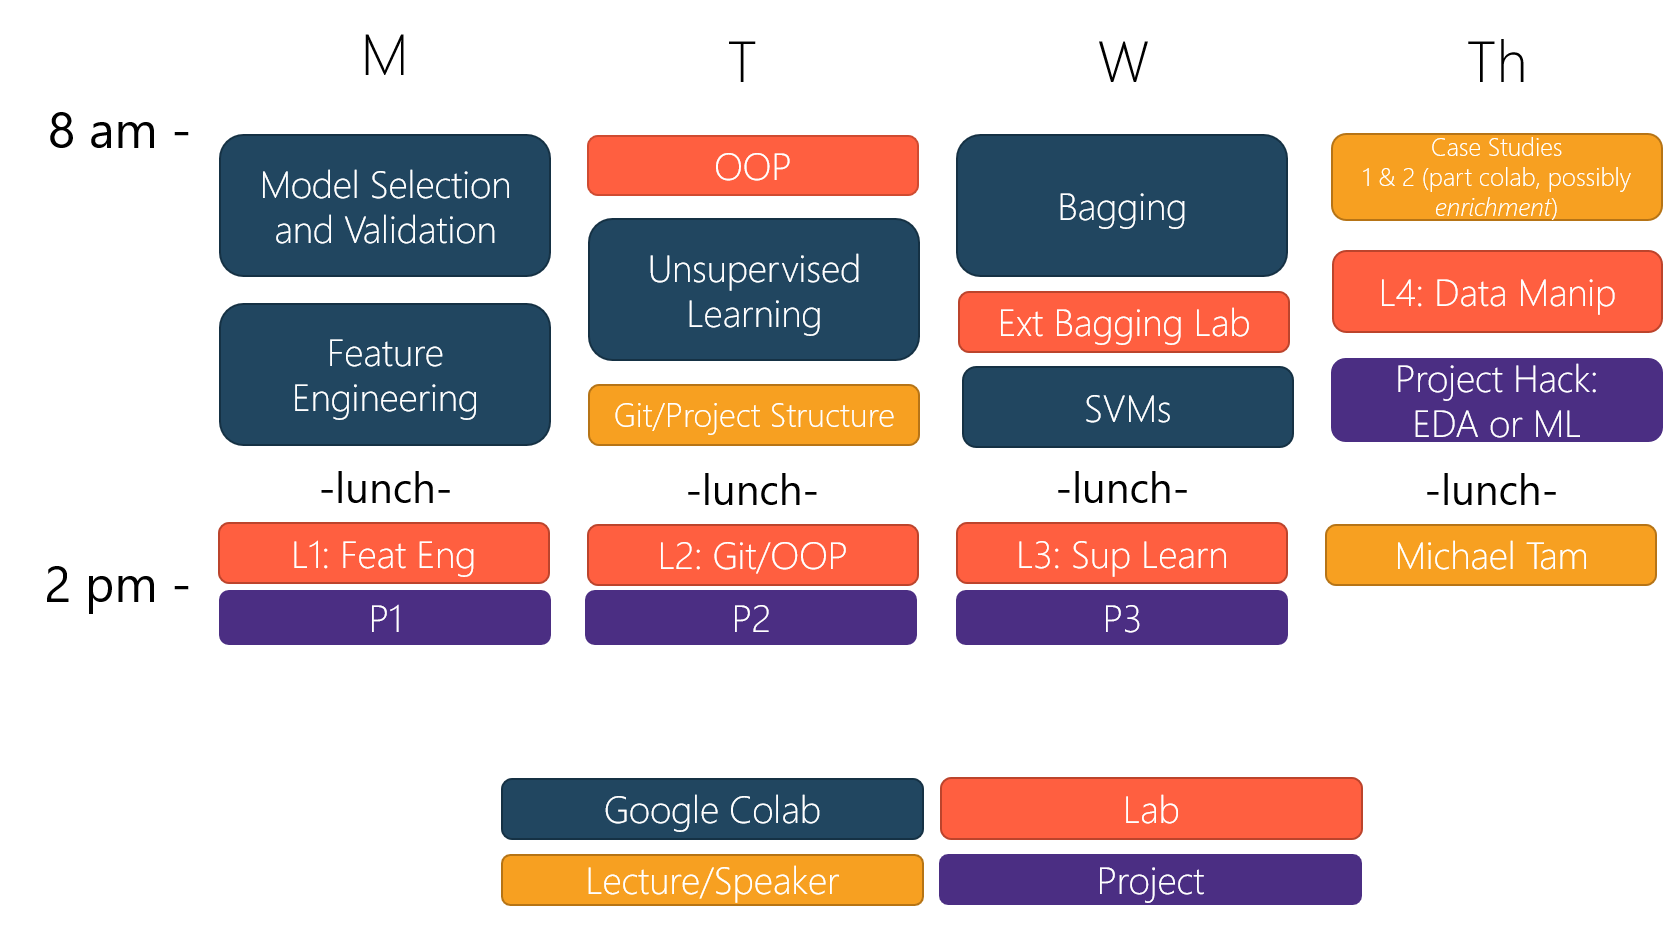
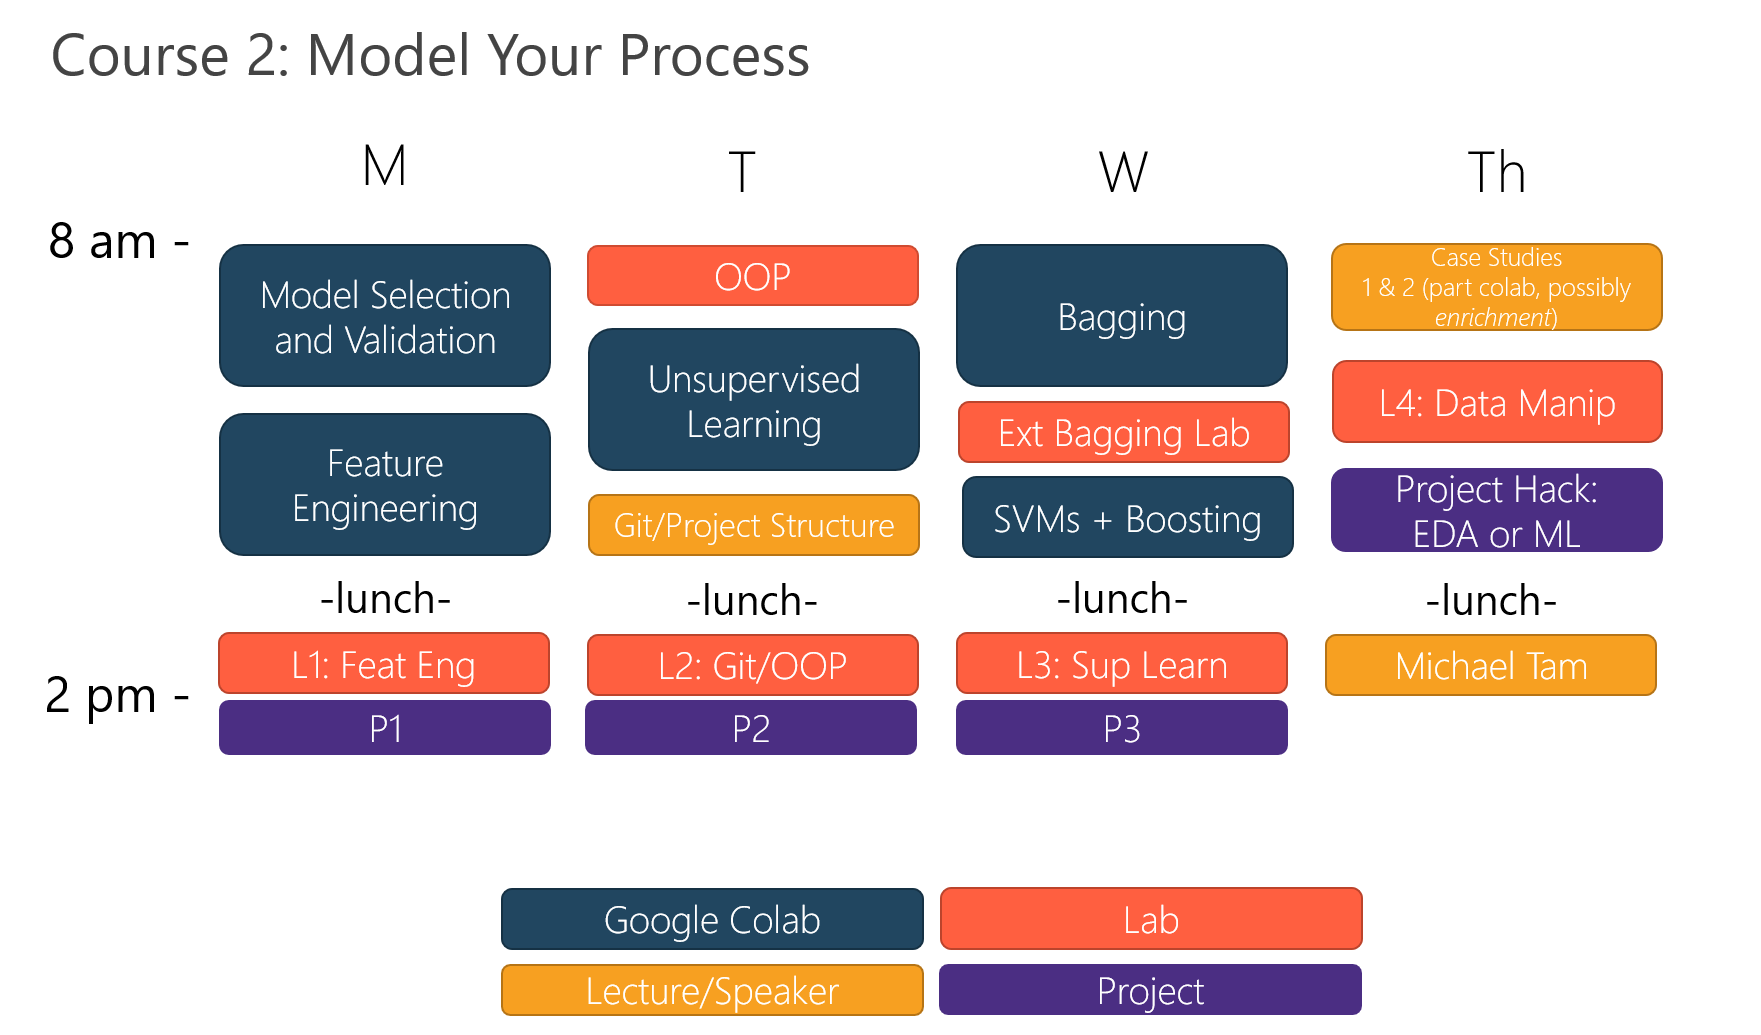
readme update

diff --git a/README.md b/README.md
@@ -1,2 +1,66 @@
 # Data Science for Engineers
 Learning content for GIX Data Science for Engineers
+
+Series Overview
+Course 1: Build Your Base
+*	Data Science Topics (CHEME 545; DSMCER)
+	   * introduction to python; lists, dictionaries, and flow control; functions and pandas; visualization: matplotlib, seaborn and pandas; supervised learning: linear/log regression
+*	Software Development Topics (CHEME 546; SEDS)
+	   * Object Oriented Programming
+*	Project
+	   * Quality Prediction and Exploratory Data Analysis of Wine Data
+*	Sessions
+	   * DSE C1 S1: Introduction to Python and Jupyter Notebooks
+	   * DSE C1 S2: Data Structures and Flow Control
+	   * DSE C1 S3: Functions and Pandas
+	   * DSE C1 S4: Visualization
+	   * DSE C1 S5: Regression
+	   * DSE C1 S6: Inferential Statistics (Product Margin Case Study)
+	   * DSE C1 S7: Product Quality Case Study
+
+<p align=center>
+<img src="https://raw.githubusercontent.com/wesleybeckner/ds_for_engineers/main/assets/C1/C1_Schedule.png" width=600></img>
+<br>
+<br>
+
+Course 2: Build Your Model
+*	Data Science Topics (CHEME 545; DSMCER)
+		*	Supervised learning: classification; resampling methods; model selection and regularization; beyond regression coefficients: tree-based methods and support vector machines; unsupervised learning: clustering and dimensionality reduction
+*	Software Development Topics (CHEME 546; SEDS)
+		*	unit tests, continuous integration, and version control
+*	Project
+		*	Predicting Equipment Failure
+*	Sessions
+		*	DSE C2 S1: Model Selection and Validation
+		*	DSE C2 S2: Feature Engineering
+		*	DSE C2 S3: Unsupervised Learning: Clustering and Dimensionality Reduction
+		*	DSE C2 S4: Bagging: Decision Trees and Random Forests
+		*	DSE C2 S5: Support Vector Machines
+		*	DSE C2 S6: Boosting: AdaBoost, XGBoost
+		*	DSE C2 S7: Mill Tool Wear Case Study
+
+<p align=center>
+<img src="https://raw.githubusercontent.com/wesleybeckner/ds_for_engineers/main/assets/C2/schedule.png" width=600></img>
+<br>
+<br>
+
+Course 3: Leverage Your Model
+*	Data Science Topics (CHEME 545; DSMCER)
+		*	Multilayer perceptron and feed forward neural networks;
+*	Software Development Topics (CHEME 546; SEDS)
+		*	Building APIs with Flask and Postman; Continuous Integration with Travis CI
+*	Project
+		*	Delivering python in a dash application
+*	Sessions
+		*	DSE C3 S1: Multilayer Perceptron
+		*	DSE C3 S2: Feed Forward NNs
+		*	DSE C3 S3: Computer Vision I
+		*	DSE C3 S4: Computer Vision II, Casting Defect Detection
+		*	DSE C3 S5: Data Dashboards with Plotly Dash
+		*	DSE C3 S6: Recurrent Neural Networks and Time Series Analysis
+		*	DSE C3 S7: Dashboard Case Study, Casting Defect Detection
+
+<p align=center>
+<img src="https://raw.githubusercontent.com/wesleybeckner/ds_for_engineers/main/assets/c3schedule.png" width=600></img>
+<br>
+<br>
